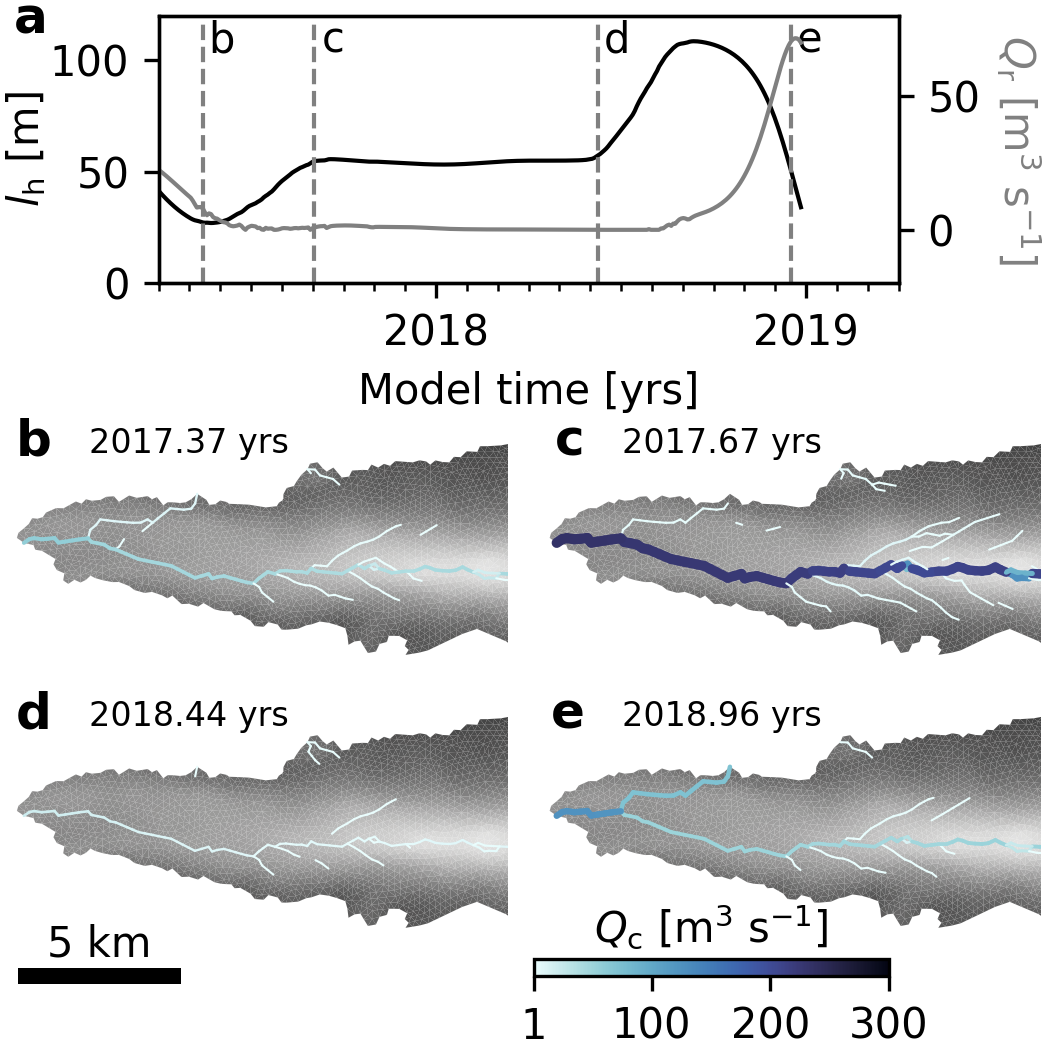
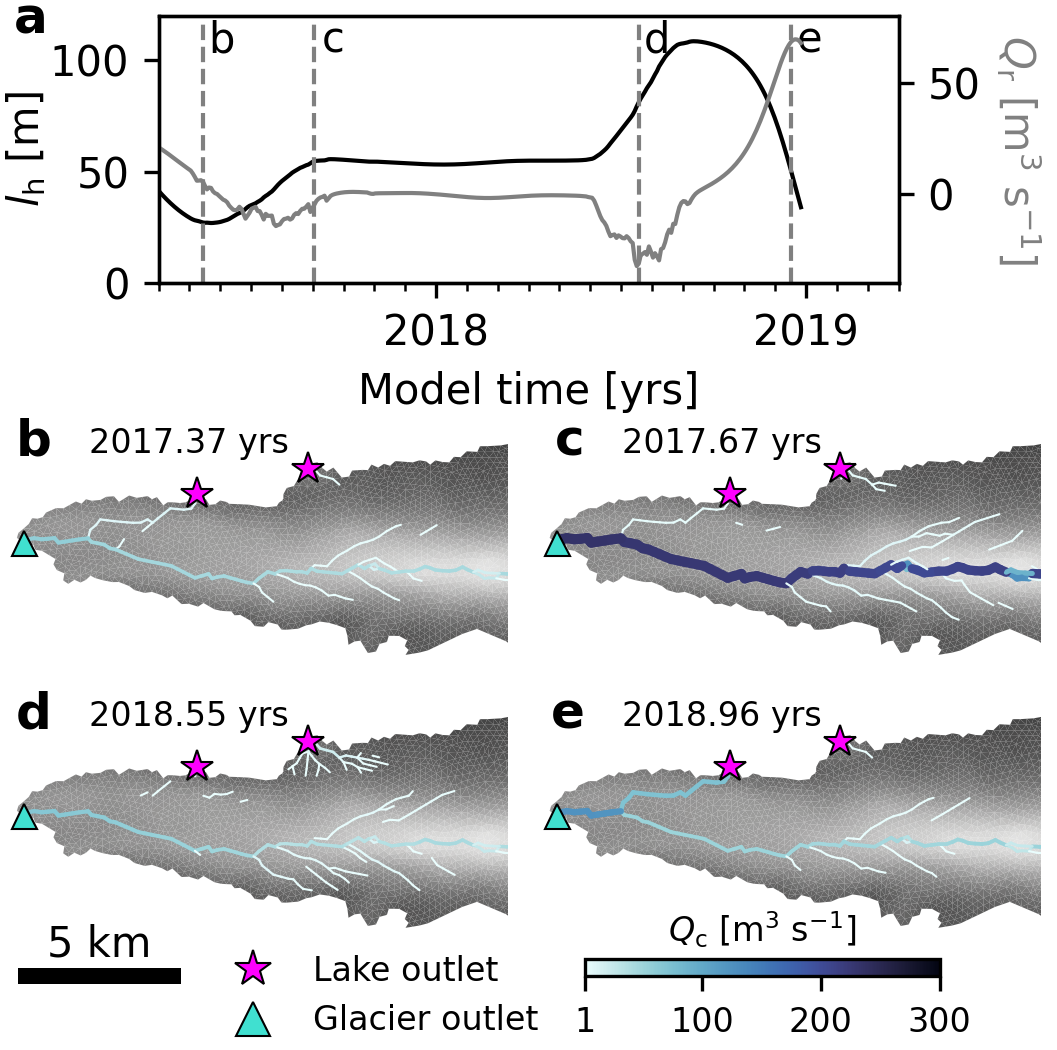
Stable Greenland chanel figures, v0

diff --git a/Greenland/analysis/plot_Greenland_figures.py b/Greenland/analysis/plot_Greenland_figures.py
@@ -108,6 +108,12 @@ Qc = np.load(Qc_path)
 # Create a mesh triangulation
 meshtri = Triangulation(x, y, md.mesh.elements-1)
 
+# Set lake and outlet positions
+# Add lake outlet and spc outlet
+lakepos1 = 6168
+lakepos2 = 8733
+spcpos  = 10655
+
 # Create a figure with GridSpec
 fig1 = plt.figure(figsize=(7.04724, 7))
 gs1 =gridspec.GridSpec(5,3,
@@ -190,13 +196,10 @@ ax1.add_collection(spc)
 ax1.text(bar_x + bar_length/2, bar_y + bar_height + 0.075*(ymax - ymin),  # a little below bar
          '5 km', ha='center', va='top', fontsize=10, color='k')
 
-# Add lake outlet and spc outlet
-lakepos = np.where(lakemask == 1)
+lakepos = [lakepos1, lakepos2]  # Combine lakepos1 and lakepos2 into a single list
 
-spcpos  = 10655
-
-for idx in lakepos[0]:  # use lakepos[0] because np.where returns a tuple
-    ax1.plot(x[idx], y[idx], marker='*', color='fuchsia',markeredgecolor='black', markersize=11)
+for idx in lakepos:  # Iterate through both lake positions
+    ax1.plot(x[idx], y[idx], marker='*', color='fuchsia', markeredgecolor='black', markersize=11)
 
 ax1.plot(x[spcpos], y[spcpos], marker='^', color='turquoise',markeredgecolor='black', markersize=9)
 
@@ -220,7 +223,13 @@ ax1.legend(
 )
 
 # Get coordinates for all lake outlets
-lake_coords = [(x[idx], y[idx]) for idx in lakepos[0]]
+lake_coords = (x[lakepos1], y[lakepos1])
+lake_coord2 = (x[lakepos2], y[lakepos2])
+
+# Combine lake coordinates into a list
+lake_coords = [lake_coords, lake_coord2]
+
+
 
 # Sort by x-coordinate to determine west vs east
 lake_coords_sorted = sorted(lake_coords, key=lambda p: p[0])  # (west, east)
@@ -439,17 +448,17 @@ ax1.xaxis.set_major_formatter(FormatStrFormatter('%d')) # No decimal places
 ax1.xaxis.set_minor_locator(MultipleLocator(1/12))
 ax1.set_xlabel('Model time [yrs]', fontsize=10)
 ax1_secondary = ax1.twinx()
-ax1_secondary.plot(tt, np.max(Qr, axis=0), color='gray', linewidth=1, label='$Q_\mathrm{r}$ [m$^3$ s$^{-1}$]')
+ax1_secondary.plot(tt, np.sum(Qr, axis=0), color='gray', linewidth=1, label='$Q_\mathrm{r}$ [m$^3$ s$^{-1}$]')
 ax1_secondary.set_ylabel('$Q_\mathrm{r}$ [m$^3$ s$^{-1}$]', fontsize=10,rotation=270, labelpad=15,color='gray')
 ax1.set_xlim(2017.25,2019.25)
 ax1.margins(x=0, y=0)
 ax1.set_ylim(0, 120)
-ax1_secondary.set_ylim(-20, 80)
+ax1_secondary.set_ylim(-40, 80)
 # Add vertical line
 time_to_show_1 = 1710
 time_to_show_2 = 1765
 time_to_show_3 = 1850
-time_to_show_4 = 1905
+time_to_show_4 = 1925
 time_to_show_5 = 2000
 
 ax1.axvline(tt[time_to_show_1], color='gray', linestyle='--', linewidth=1)
@@ -534,6 +543,10 @@ lc1 = LineCollection(lc_xy1, colors=lc_colors1, linewidths=lc_lw1,
     capstyle='round')
 lc1.set(rasterized=True)
 ax2.add_collection(lc1)
+ax2.plot(mesh['x'][(lakepos1)], mesh['y'][(lakepos1)], marker='*', color='fuchsia', markeredgecolor='black', markersize=8, markeredgewidth=0.5)
+ax2.plot(mesh['x'][(lakepos2)], mesh['y'][(lakepos2)], marker='*', color='fuchsia', markeredgecolor='black', markersize=8, markeredgewidth=0.5)
+# Plot the glacier outlet position
+ax2.plot(mesh['x'][spcpos], mesh['y'][spcpos], marker='^', color='turquoise', markeredgecolor='black', markersize=6, markeredgewidth=0.5)
 #cax2 = ax2.inset_axes((1.01, 0, 0.03, 1))
 #cb1 = fig1.colorbar(matplotlib.cm.ScalarMappable(norm=cnorm, cmap=cmocean.cm.ice_r),
 #    cax=cax2, orientation='vertical')
@@ -595,7 +608,11 @@ lc2 = LineCollection(lc_xy2, colors=lc_colors2, linewidths=lc_lw2,
     capstyle='round')
 lc2.set(rasterized=True)
 ax3.add_collection(lc2)
-cax3 = ax3.inset_axes((0, -0.9, 0.7, 0.06))
+cax3 = ax3.inset_axes((0.1, -0.9, 0.7, 0.06))
+ax3.plot(mesh['x'][(lakepos1)], mesh['y'][(lakepos1)], marker='*', color='fuchsia', markeredgecolor='black', markersize=8, markeredgewidth=0.5)
+ax3.plot(mesh['x'][(lakepos2)], mesh['y'][(lakepos2)], marker='*', color='fuchsia', markeredgecolor='black', markersize=8, markeredgewidth=0.5)
+# Plot the glacier outlet position
+ax3.plot(mesh['x'][spcpos], mesh['y'][spcpos], marker='^', color='turquoise', markeredgecolor='black', markersize=6, markeredgewidth=0.5)
 
 # --- fourth plot: Qc time series 3
 #tric3 = ax4.tripcolor(meshtri, bed, cmap=cmocean.cm.gray_r, edgecolors='w', linewidths=0.01, alpha=0.75)
@@ -688,6 +705,31 @@ ax5.text(bar_x + bar_length/2, bar_y + bar_height + 0.15*(ymax - ymin),  # a lit
          '5 km', ha='center', va='top', fontsize=10, color='k')
 
 
+ax5.plot(mesh['x'][(lakepos1)], mesh['y'][(lakepos1)], marker='*', color='fuchsia', markeredgecolor='black', markersize=8, markeredgewidth=0.5)
+ax5.plot(mesh['x'][(lakepos2)], mesh['y'][(lakepos2)], marker='*', color='fuchsia', markeredgecolor='black', markersize=8, markeredgewidth=0.5)
+# Plot the glacier outlet position
+ax5.plot(mesh['x'][spcpos], mesh['y'][spcpos], marker='^', color='turquoise', markeredgecolor='black', markersize=6, markeredgewidth=0.5)
+
+# Create dummy handles for legend
+lake_handle = plt.Line2D([], [], marker='*', color='fuchsia',markeredgecolor='black', linestyle='none',
+                         markersize=9, label='Lake outlet', markeredgewidth=0.5)
+spc_handle  = plt.Line2D([], [], marker='^', color='turquoise',markeredgecolor='black', linestyle='none',
+                         markersize=8, label='Glacier outlet', markeredgewidth=0.5)
+
+# Legend position just to the right of the scale bar
+legend_x = bar_x + bar_length + 0.25e3   # 0.5 km gap to the right
+legend_y = (bar_y + bar_height /2) - 0.6e3       # vertically centered on bar
+
+ax5.legend(
+    handles=[lake_handle, spc_handle],
+    loc='center left',                   # anchor legend's left edge to this point
+    bbox_to_anchor=(legend_x, legend_y),
+    bbox_transform=ax5.transData,        # match data coords of scale bar
+    frameon=False,
+    fontsize=8
+)
+
+
 
 
 # --- sixth plot: Qc time series 5
@@ -723,13 +765,18 @@ lc5 = LineCollection(lc_xy5, colors=lc_colors5, linewidths=lc_lw5,
     capstyle='round')
 lc5.set(rasterized=True)
 ax6.add_collection(lc5)
+ax6.plot(mesh['x'][(lakepos1)], mesh['y'][(lakepos1)], marker='*', color='fuchsia', markeredgecolor='black', markersize=8, markeredgewidth=0.5)
+ax6.plot(mesh['x'][(lakepos2)], mesh['y'][(lakepos2)], marker='*', color='fuchsia', markeredgecolor='black', markersize=8, markeredgewidth=0.5)
+# Plot the glacier outlet position
+ax6.plot(mesh['x'][spcpos], mesh['y'][spcpos], marker='^', color='turquoise', markeredgecolor='black', markersize=6, markeredgewidth=0.5)
 
 #cax1 = ax6.inset_axes((0.1, -0.2, 1, 0.03))
 cb1 = fig1.colorbar(matplotlib.cm.ScalarMappable(norm=cnorm, cmap=cmocean.cm.ice_r),
     cax=cax3, orientation='horizontal')
-cb1.set_ticks([Qcmin,100,200,300])
+cb1.set_ticks([Qcmin, 100, 200, 300])
+cb1.ax.tick_params(labelsize=8)
 cb1.ax.xaxis.set_label_position('top')
-cb1.set_label('$Q_{\mathrm{c}}$ [m$^3$ s$^{-1}$]', fontsize=10)
+cb1.set_label('$Q_{\mathrm{c}}$ [m$^3$ s$^{-1}$]', fontsize=8)
 
 # Labels for time
 ax2.text(0.37, 0.91, f"{tt[time_to_show_1]:.2f} yrs", transform=ax2.transAxes,